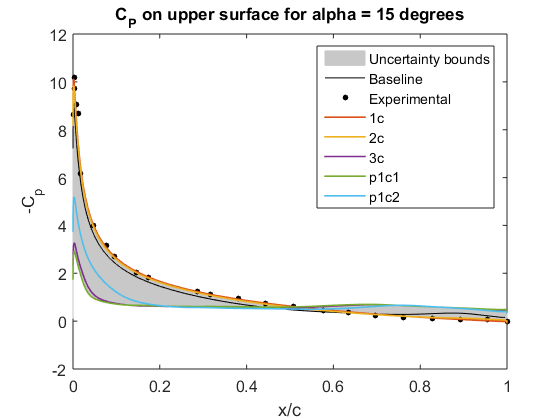
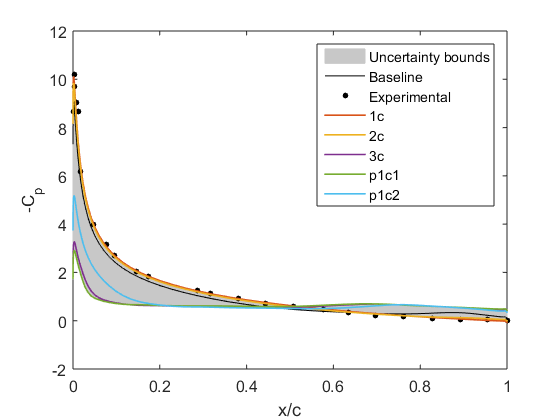
fixed some images

diff --git a/_tutorials/compressible_flow/UQ_NACA0012.md b/_tutorials/compressible_flow/UQ_NACA0012.md
@@ -151,7 +151,7 @@ In order to obtain the interval bounds of a QOI, all 6 instantiations of the flo
 
 ![C_P Distribution_15_with_perturbations](../../UQ_NACA0012/images/aoa15_cp_upper_withPert.png)
 
-![C_P Distribution_15](../../UQ_NACA0012/images/aoa15_cp_upper2.png)
+![C_P Distribution_15](../../UQ_NACA0012/images/aoa15_cp_upper.png)
 
 The uncertainty bounds are formed by a union of all the states the QOI predicted by the module. 
 
